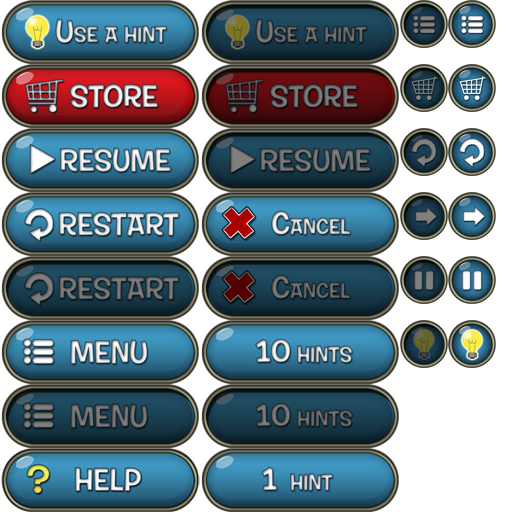
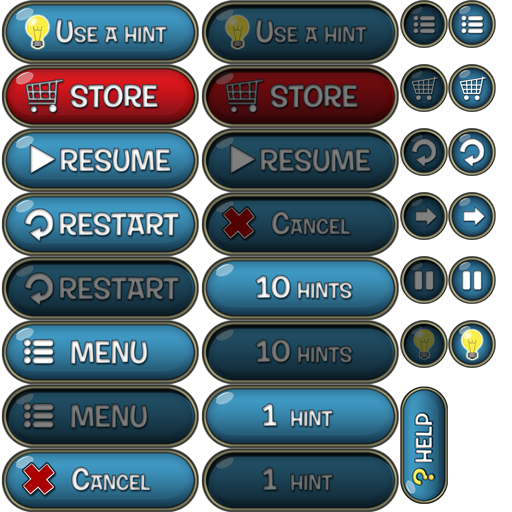
help done

Changed region(s): [[0.4062, 0.375, 0.875, 1.0], [0.0312, 0.9062, 0.3125, 0.9688]]

diff --git a/src/ru/emerginggames/snappers/gdx/Game.java b/src/ru/emerginggames/snappers/gdx/Game.java
@@ -9,10 +9,7 @@ import com.badlogic.gdx.scenes.scene2d.Stage;
 import ru.emerginggames.snappers.Metrics;
 import ru.emerginggames.snappers.controller.IGameEventListener;
 import ru.emerginggames.snappers.gdx.Elements.ColorRect;
-import ru.emerginggames.snappers.gdx.stages.GameOverStage;
-import ru.emerginggames.snappers.gdx.stages.HintMenuStage;
-import ru.emerginggames.snappers.gdx.stages.MainStage;
-import ru.emerginggames.snappers.gdx.stages.PausedStage;
+import ru.emerginggames.snappers.gdx.stages.*;
 import ru.emerginggames.snappers.model.Level;
 import ru.emerginggames.snappers.model.LevelPack;
 
@@ -37,6 +34,7 @@ public class Game implements ApplicationListener, IGameEventListener {
     protected Sprite bg;
     FPSLogger logger;
     protected ColorRect tempRect;
+    protected HelpStage helpStage;
     
     protected boolean objectsCreated = false;
     public static boolean isSoundEnabled;
@@ -57,8 +55,7 @@ public class Game implements ApplicationListener, IGameEventListener {
         gameOverStage = new GameOverStage(width,height,this, snappersStage.getLogic(), batch);
         pausedStage = new PausedStage(width, height, this, batch);
         hintMenu = new HintMenuStage(width, height, this, batch);
-        currentStage = snappersStage;
-        Gdx.input.setInputProcessor(snappersStage);
+        setStage(snappersStage);
 
         if (level != null)
             snappersStage.setLevel(level);
@@ -100,7 +97,8 @@ public class Game implements ApplicationListener, IGameEventListener {
         float delta = Gdx.graphics.getDeltaTime();
         if (currentStage != pausedStage)
             snappersStage.act(delta);
-        snappersStage.draw();
+        if (currentStage != helpStage)
+            snappersStage.draw();
 
         if (currentStage != snappersStage){
             currentStage.act(delta);
@@ -144,18 +142,18 @@ public class Game implements ApplicationListener, IGameEventListener {
     @Override
     public void onNextBtn() {
         snappersStage.nextLevel();
-        Gdx.input.setInputProcessor(currentStage = snappersStage);
+        setStage(snappersStage);
     }
 
     @Override
     public void onRestartBtn() {
         snappersStage.restartLevel();
-        Gdx.input.setInputProcessor(currentStage = snappersStage);
+        setStage(snappersStage);
     }
 
     @Override
     public void onResumeBtn() {
-        Gdx.input.setInputProcessor(currentStage = snappersStage);
+        setStage(snappersStage);
     }
 
     @Override
@@ -171,12 +169,12 @@ public class Game implements ApplicationListener, IGameEventListener {
             return;
         }
         hintMenu.show();
-        Gdx.input.setInputProcessor(currentStage = hintMenu);
+        setStage(hintMenu);
     }
 
     @Override
     public void useHint() {
-        Gdx.input.setInputProcessor(currentStage = snappersStage);
+        setStage(snappersStage);
         ((IAppGameListener)Gdx.app).useHint();
         snappersStage.showHints(false);
     }
@@ -186,14 +184,14 @@ public class Game implements ApplicationListener, IGameEventListener {
         gameOverStage.setWon(true);
         if (isSoundEnabled)
             Resources.winSound.play(0.6f);
-        Gdx.input.setInputProcessor(currentStage = gameOverStage);
+        setStage(gameOverStage);
         ((IAppGameListener)Gdx.app).levelSolved(snappersStage.getLogic().level);
     }
 
     @Override
     public void gameLost() {
         gameOverStage.setWon(false);
-        Gdx.input.setInputProcessor(currentStage = gameOverStage);
+        setStage(gameOverStage);
     }
 
     @Override
@@ -203,8 +201,20 @@ public class Game implements ApplicationListener, IGameEventListener {
     }
 
     @Override
+    public void onHelp() {
+        if (helpStage == null)
+            helpStage = new HelpStage(width, height, batch, this);
+        setStage(helpStage);
+    }
+
+    @Override
     public void levelPackWon() {
         ((IAppGameListener)Gdx.app).levelPackWon(levelPack);
+    }
+
+    @Override
+    public void onHelpDone() {
+        setStage(gameOverStage);
     }
 
     public Level getLevel(){
@@ -213,6 +223,10 @@ public class Game implements ApplicationListener, IGameEventListener {
 
     public LevelPack getLevelPack(){
         return levelPack;
+    }
+
+    private void setStage(Stage stage){
+        Gdx.input.setInputProcessor(currentStage = stage);
     }
 
 

diff --git a/src/ru/emerginggames/snappers/gdx/Elements/SimpleButton.java b/src/ru/emerginggames/snappers/gdx/Elements/SimpleButton.java
@@ -6,7 +6,10 @@ import com.badlogic.gdx.graphics.g2d.SpriteBatch;
 import com.badlogic.gdx.graphics.g2d.TextureRegion;
 import com.badlogic.gdx.scenes.scene2d.Actor;
 import ru.emerginggames.snappers.gdx.Game;
+import ru.emerginggames.snappers.gdx.core.PrepareableTextureAtlas;
 import ru.emerginggames.snappers.gdx.helper.PositionHelper;
+import ru.emerginggames.snappers.gdx.core.PrepareableTextureAtlas.AtlasRegion;
+import ru.emerginggames.snappers.gdx.core.PrepareableTextureAtlas.AtlasSprite;
 
 /**
  * Created by IntelliJ IDEA.
@@ -24,8 +27,9 @@ public class SimpleButton extends Actor implements IPositionable {
     protected float scale = 1;
 
     public SimpleButton(TextureRegion normal, TextureRegion down, Sound sound, IOnEventListener listener){
-        button = new Sprite(normal);
-        buttonDown = new Sprite(down);
+        button = doSprite(normal);
+        if (down != null)
+            buttonDown = doSprite(down);
         width = button.getWidth();
         height = button.getHeight();
         this.listener = listener;
@@ -34,9 +38,11 @@ public class SimpleButton extends Actor implements IPositionable {
 
     public SimpleButton(TextureRegion normal, TextureRegion down, float scale, Sound sound,  IOnEventListener listener){
         button = new Sprite(normal);
-        buttonDown = new Sprite(down);
         button.setScale(scale);
-        buttonDown.setScale(scale);
+        if (down != null){
+            buttonDown = new Sprite(down);
+            buttonDown.setScale(scale);
+        }
         width = normal.getRegionWidth() * scale;
         height = normal.getRegionHeight() * scale;
         this.listener = listener;
@@ -47,7 +53,7 @@ public class SimpleButton extends Actor implements IPositionable {
     @Override
     public void draw(SpriteBatch batch, float parentAlpha) {
         button.draw(batch, parentAlpha);
-        if (isDown)
+        if (isDown && buttonDown != null)
             buttonDown.draw(batch, parentAlpha);
     }
 
@@ -109,7 +115,8 @@ public class SimpleButton extends Actor implements IPositionable {
         this.x = x;
         this.y = y;
         button.setPosition(x, y);
-        buttonDown.setPosition(x, y);
+        if (buttonDown != null)
+            buttonDown.setPosition(x, y);
     }
 
     @Override
@@ -120,5 +127,15 @@ public class SimpleButton extends Actor implements IPositionable {
     @Override
     public float getTop() {
         return getY() + getHeight();
+    }
+
+    private Sprite doSprite(TextureRegion region){
+        Sprite s = new Sprite(region);
+        if (region instanceof AtlasRegion && ((AtlasRegion)region).rotate){
+            s.setBounds(0, 0, region.getRegionHeight(), region.getRegionWidth());
+            s.rotate90(true);
+        }
+
+        return s;
     }
 }

diff --git a/src/ru/emerginggames/snappers/gdx/stages/GameOverStage.java b/src/ru/emerginggames/snappers/gdx/stages/GameOverStage.java
@@ -30,6 +30,7 @@ public class GameOverStage extends DimBackStage{
     protected SimpleButton restartButton;
     protected SimpleButton shopButton;
     protected SimpleButton menuButton;
+    protected SimpleButton helpButton;
 
     private OutlinedTextSprite wonText;
     private OutlinedTextSprite lostText;
@@ -66,10 +67,17 @@ public class GameOverStage extends DimBackStage{
                 listener.onMenuBtn();
             }
         });
+        helpButton = new SimpleButton(Resources.menuButtonFrames[16], null, Resources.buttonSound, new IOnEventListener() {
+            @Override
+            public void onEvent() {
+                listener.onHelp();
+            }
+        });
         addActor(nextButton);
         addActor(restartButton);
         addActor(shopButton);
         addActor(menuButton);
+        addActor(helpButton);
 
         wonText = new OutlinedTextSprite(winMessages[0], Metrics.largeFontSize, Color.WHITE, Color.BLACK, Color.TRANSPARENT, 2, Resources.font);
         lostText = new OutlinedTextSprite(LEVEL_FAILED, Metrics.largeFontSize, Color.WHITE, Color.BLACK, Color.TRANSPARENT, 2, Resources.font);
@@ -84,6 +92,7 @@ public class GameOverStage extends DimBackStage{
         super.setViewport(width, height);
         shopButton.positionRelative(width, height, IPositionable.Dir.DOWNLEFT, Metrics.screenMargin);
         nextButton.positionRelative(shopButton, IPositionable.Dir.LEFT, Metrics.screenMargin/2);
+        helpButton.positionRelative(0, height, IPositionable.Dir.DOWNRIGHT, Metrics.screenMargin);
 
         int textPos = Math.round(height * 0.6f);
         wonText.setPosition(Math.round((width - wonText.getWidth())/2), textPos);
@@ -100,7 +109,6 @@ public class GameOverStage extends DimBackStage{
             scoreText.setText(String.format(SCORE, score));
             wonText.setText(winMessages[(int)(Math.random()*winMessages.length)]);
             wonText.positionRelative(width/2, wonText.getY(), IPositionable.Dir.UP, 0);
-            //wonText.setPosition((width - wonText.getWidth())/2, wonText.getY());
             ((IAppGameListener)Gdx.app).addScore(score);
         }
         else{
@@ -112,6 +120,7 @@ public class GameOverStage extends DimBackStage{
 
 
         nextButton.visible = nextButton.touchable = shopButton.visible = shopButton.touchable = isWon;
+        helpButton.visible = helpButton.touchable = !isWon;
         menuButton.positionRelative(restartButton, IPositionable.Dir.LEFT, Metrics.screenMargin/2);
         show();
     }

diff --git a/src/ru/emerginggames/snappers/gdx/stages/HelpStage.java b/src/ru/emerginggames/snappers/gdx/stages/HelpStage.java
@@ -1,0 +1,43 @@
+package ru.emerginggames.snappers.gdx.stages;
+
+import com.badlogic.gdx.graphics.g2d.Sprite;
+import com.badlogic.gdx.graphics.g2d.SpriteBatch;
+import com.badlogic.gdx.scenes.scene2d.Stage;
+import ru.emerginggames.snappers.controller.IGameEventListener;
+import ru.emerginggames.snappers.gdx.Resources;
+
+/**
+ * Created by IntelliJ IDEA.
+ * User: babay
+ * Date: 09.04.12
+ * Time: 9:10
+ */
+public class HelpStage extends Stage {
+    IGameEventListener listener;
+
+    Sprite helpSprite;
+
+    public HelpStage(float width, float height, SpriteBatch batch, IGameEventListener listener) {
+        super(width, height, true, batch);
+        helpSprite = new Sprite(Resources.getHelpTexture());
+
+        float aspect = helpSprite.getHeight() / helpSprite.getWidth();
+        int newHeight = Math.round(width * aspect);
+        helpSprite.setBounds(0, height - newHeight, width, newHeight);
+        this.listener = listener;
+    }
+
+    @Override
+    public void draw() {
+        batch.begin();
+        helpSprite.draw(batch);
+        batch.end();
+    }
+
+    @Override
+    public boolean touchUp(int x, int y, int pointer, int button) {
+        Resources.buttonSound.play();
+        listener.onHelpDone();
+        return true;
+    }
+}

diff --git a/src/ru/emerginggames/snappers/gdx/core/ResizedFileTextureData.java b/src/ru/emerginggames/snappers/gdx/core/ResizedFileTextureData.java
@@ -50,10 +50,14 @@ public class ResizedFileTextureData implements TextureData{
         //Texture.setEnforcePotImages(false);
 
         pixmap = new Pixmap(file);
-        if (width == 0){
+        if (width == 0 && height == 0){
             width = pixmap.getWidth();
             height = pixmap.getHeight();
-        }
+        } else  if (width == 0)
+            width = Math.round(pixmap.getWidth() * (float)height / pixmap.getHeight());
+        else if (height == 0)
+            height = Math.round(pixmap.getHeight() * (float)width/ pixmap.getWidth());
+
         normWidth = nextPowerOfTwo(width);
         normHeight = nextPowerOfTwo(height);
         if (format == null)
@@ -64,6 +68,7 @@ public class ResizedFileTextureData implements TextureData{
             Pixmap tmp = new Pixmap(normWidth, normHeight, format);
             Pixmap.Blending blend = Pixmap.getBlending();
             Pixmap.setBlending(Pixmap.Blending.None);
+            Pixmap.setFilter(Pixmap.Filter.BiLinear);
             tmp.drawPixmap(pixmap, 0, 0, pixmap.getWidth(), pixmap.getHeight(), 0, 0, width, height);
             pixmap.dispose();
             pixmap = tmp;

diff --git a/src/ru/emerginggames/snappers/gdx/stages/HintMenuStage.java b/src/ru/emerginggames/snappers/gdx/stages/HintMenuStage.java
@@ -121,9 +121,10 @@ public class HintMenuStage extends MenuStage {
         addActor(buy1Button);
         addActor(buy10Button);
 
-        line1 = new OutlinedTextSprite(Metrics.menuButtonWidth, Metrics.fontSize, Color.WHITE, Color.BLACK, 2, Resources.font);
-        line2 = new OutlinedTextSprite(Metrics.menuButtonWidth, Metrics.fontSize, Color.WHITE, Color.BLACK, 2, Resources.font);
-        line3 = new OutlinedTextSprite(Metrics.menuButtonWidth, Metrics.fontSize, Color.WHITE, Color.BLACK, 2, Resources.font);
+        int btnWidth = (Math.round(cancelButton.getWidth()));
+        line1 = new OutlinedTextSprite(btnWidth, Metrics.fontSize, Color.WHITE, Color.BLACK, 2, Resources.font);
+        line2 = new OutlinedTextSprite(btnWidth, Metrics.fontSize, Color.WHITE, Color.BLACK, 2, Resources.font);
+        line3 = new OutlinedTextSprite(btnWidth, Metrics.fontSize, Color.WHITE, Color.BLACK, 2, Resources.font);
     }
 
     @Override

diff --git a/src/ru/emerginggames/snappers/gdx/core/PrepareableTextureAtlas.java b/src/ru/emerginggames/snappers/gdx/core/PrepareableTextureAtlas.java
@@ -495,7 +495,7 @@ public class PrepareableTextureAtlas implements Disposable {
             originalOffsetX = region.offsetX;
             originalOffsetY = region.offsetY;
             setRegion(region);
-            setOrigin(region.originalWidth / 2f, region.originalHeight / 2f);
+            //setOrigin(region.originalWidth / 2f, region.originalHeight / 2f);
             int width = Math.abs(region.getRegionWidth());
             int height = Math.abs(region.getRegionHeight());
             if (region.rotate) {

diff --git a/src/ru/emerginggames/snappers/gdx/stages/MainStage.java b/src/ru/emerginggames/snappers/gdx/stages/MainStage.java
@@ -104,7 +104,7 @@ public class MainStage extends Stage implements ILogicListener {
         int snapperAreaHeight = height - marginTop - marginBottom;
         if (snapperAreaHeight < width){
             snapperAreaHeight = width;
-            marginBottom = height - marginTop - marginBottom;
+            marginBottom = height - marginTop - snapperAreaHeight;
             if (marginBottom<0){
                 snapperAreaHeight+= marginBottom;
                 marginBottom = 0;

diff --git a/src/ru/emerginggames/snappers/UserPreferences.java b/src/ru/emerginggames/snappers/UserPreferences.java
@@ -101,7 +101,7 @@ public class UserPreferences {
 
     public void unlockLevelPack(LevelPack pack){
         Editor editor = prefs.edit();
-        editor.putString(_S(String.format(LEVEL_UNLOCK, pack.name)), _I(100));
+        editor.putString(_S(String.format(LEVEL_UNLOCK, pack.name)), _I(1));
         editor.commit();
     }
 

diff --git a/src/ru/emerginggames/snappers/controller/IGameEventListener.java b/src/ru/emerginggames/snappers/controller/IGameEventListener.java
@@ -19,5 +19,7 @@ public interface IGameEventListener {
     public void gameLost();
     public void levelPackWon();
     public void useHint();
+    public void onHelp();
+    public void onHelpDone();
 
 }
